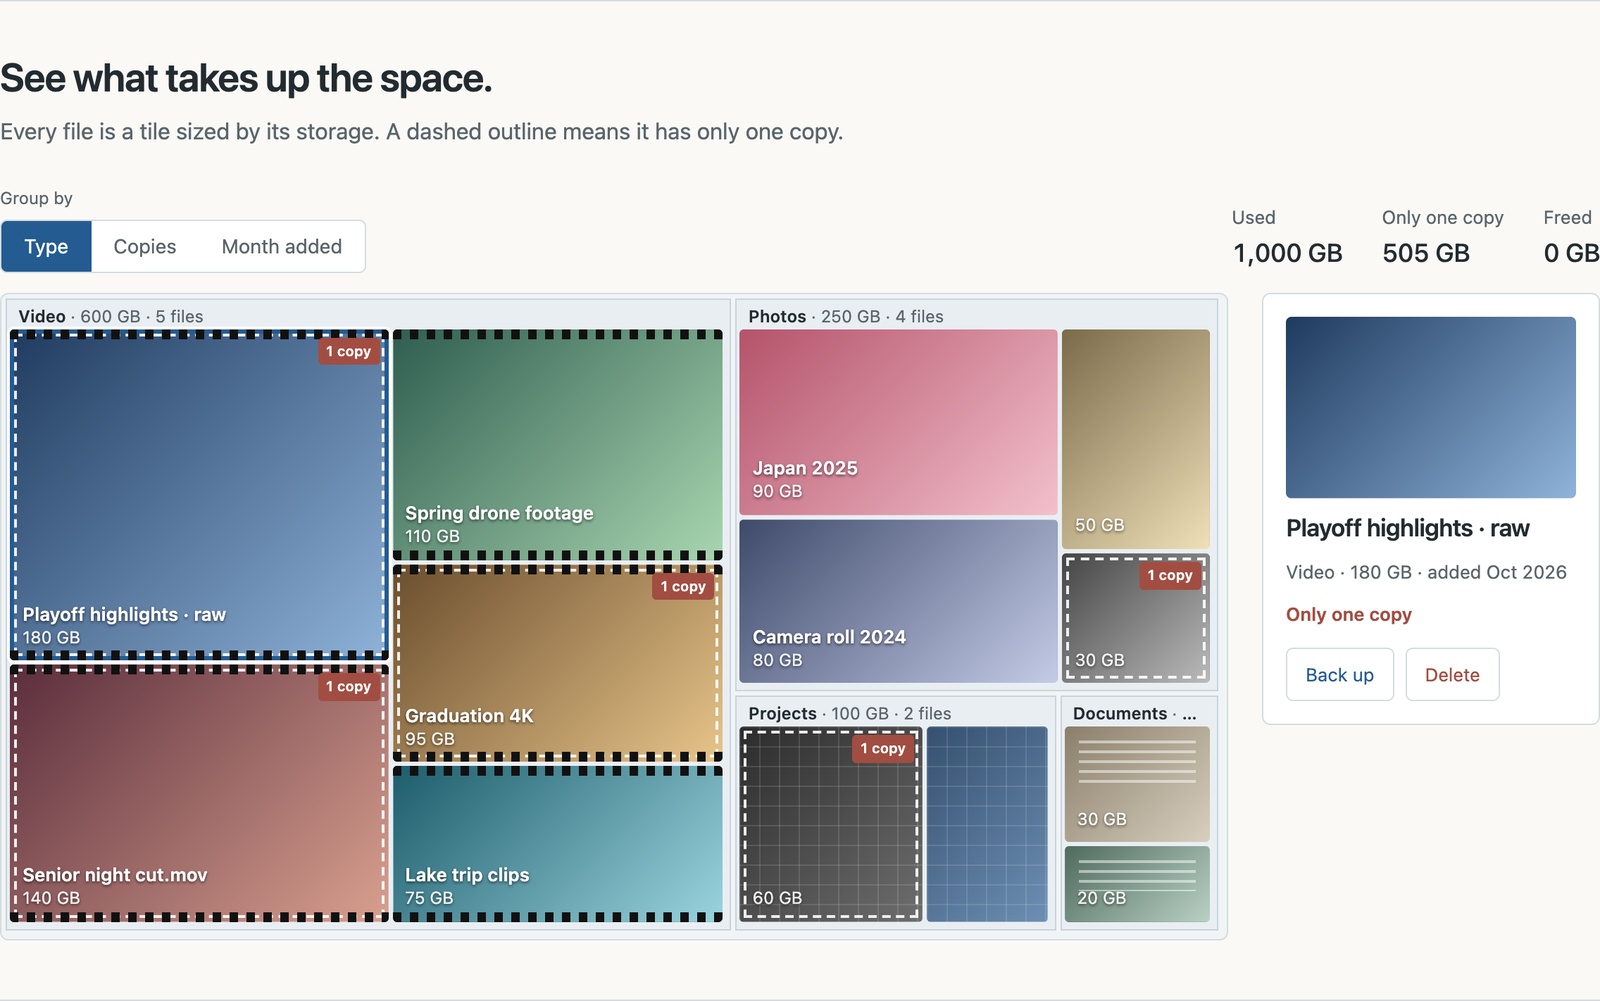
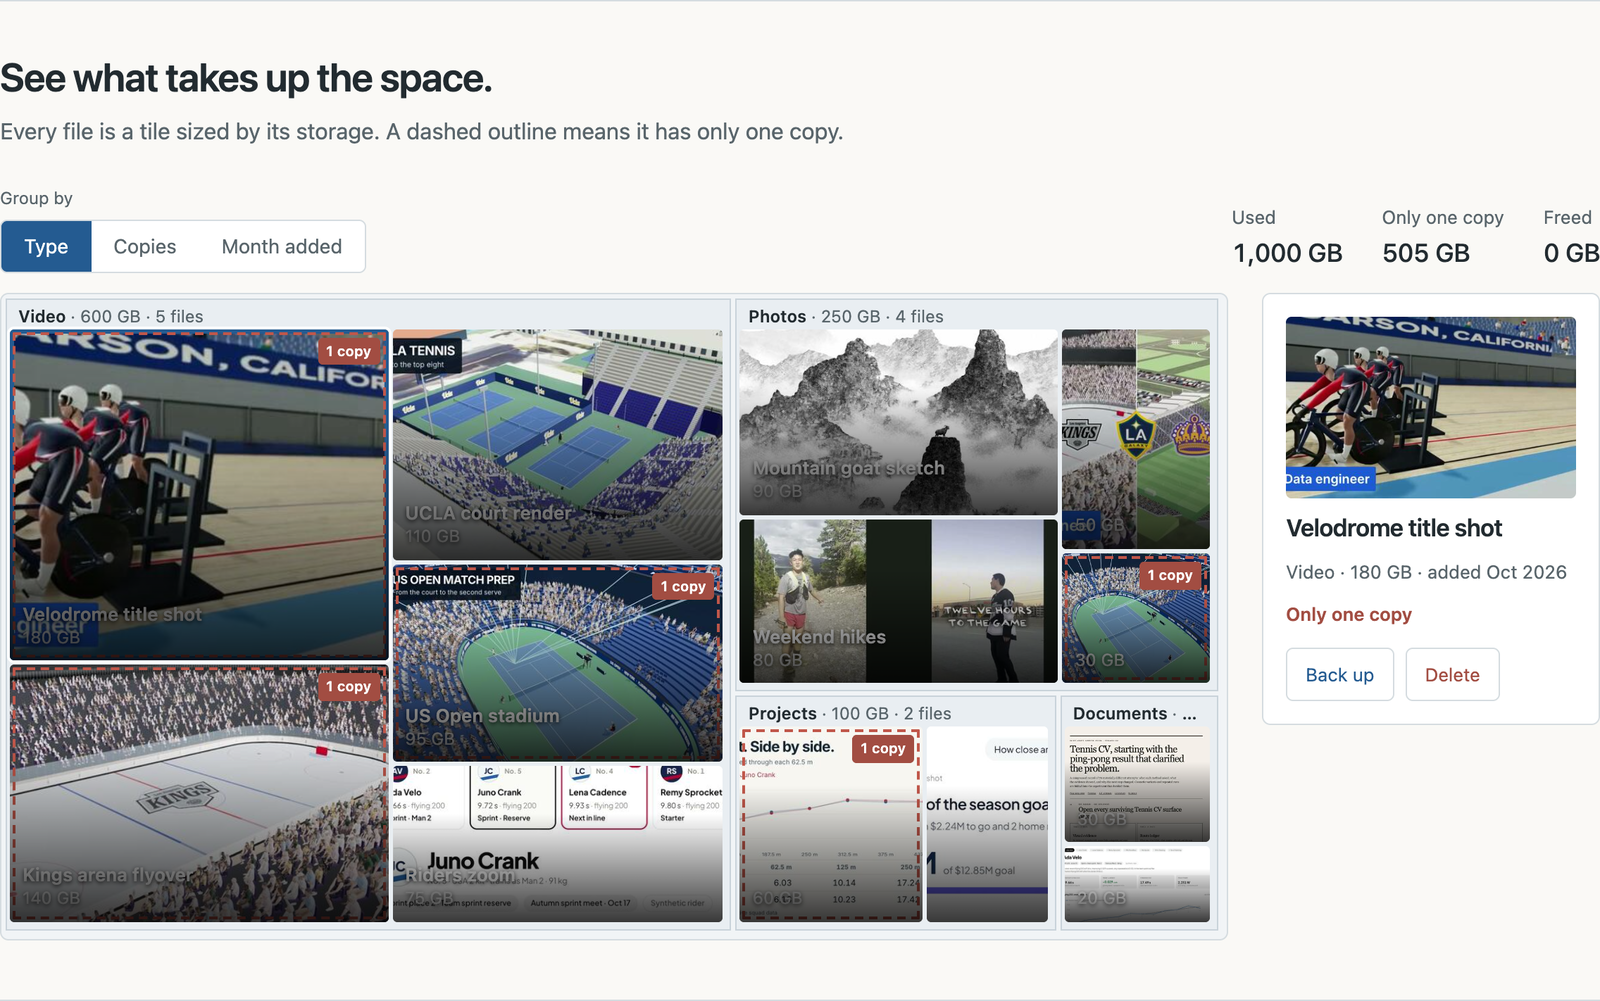
Use real portfolio frames as storage thumbnails and strengthen tile labels

diff --git a/examples/storage.js b/examples/storage.js
@@ -1,20 +1,20 @@
-/* Fictional files and sizes. Pure data and layout; no DOM. */
+/* Fictional files and sizes; thumbnails are frames from jerrythegoat.com projects. Pure data and layout; no DOM. */
 (function (root) {
   "use strict";
   const files = [
-    { id: "playoff", name: "Playoff highlights · raw", type: "Video", gb: 180, copies: 1, month: "2026-10", art: "linear-gradient(135deg,#1f3a5f,#8fb3d9)" },
-    { id: "senior", name: "Senior night cut.mov", type: "Video", gb: 140, copies: 1, month: "2026-09", art: "linear-gradient(135deg,#5a2d3c,#d9a08f)" },
-    { id: "drone", name: "Spring drone footage", type: "Video", gb: 110, copies: 2, month: "2026-05", art: "linear-gradient(135deg,#2f5d50,#a9d6b0)" },
-    { id: "grad", name: "Graduation 4K", type: "Video", gb: 95, copies: 1, month: "2026-06", art: "linear-gradient(135deg,#6b4e2e,#e8c58a)" },
-    { id: "lake", name: "Lake trip clips", type: "Video", gb: 75, copies: 2, month: "2026-08", art: "linear-gradient(135deg,#1d5c6b,#9bd4de)" },
-    { id: "japan", name: "Japan 2025", type: "Photos", gb: 90, copies: 2, month: "2026-01", art: "linear-gradient(135deg,#b4536a,#f3c0cc)" },
-    { id: "roll", name: "Camera roll 2024", type: "Photos", gb: 80, copies: 2, month: "2025-12", art: "linear-gradient(135deg,#3f4a6b,#c3cbe6)" },
-    { id: "family", name: "Family albums", type: "Photos", gb: 50, copies: 2, month: "2025-11", art: "linear-gradient(135deg,#7b6a4a,#efe0b8)" },
-    { id: "scans", name: "Negative scans", type: "Photos", gb: 30, copies: 1, month: "2026-09", art: "linear-gradient(135deg,#444,#bbb)" },
-    { id: "render", name: "Render cache", type: "Projects", gb: 60, copies: 1, month: "2026-10", art: "linear-gradient(135deg,#2b2b2b,#6e6e6e)" },
-    { id: "builds", name: "Site builds", type: "Projects", gb: 40, copies: 2, month: "2026-10", art: "linear-gradient(135deg,#355070,#6d8fb3)" },
-    { id: "tax", name: "Tax archive", type: "Documents", gb: 30, copies: 2, month: "2026-02", art: "linear-gradient(135deg,#8a7f6a,#d8cfbf)" },
-    { id: "notes", name: "Course notes", type: "Documents", gb: 20, copies: 2, month: "2026-08", art: "linear-gradient(135deg,#4f6b5e,#b9d1c4)" },
+    { id: "playoff", name: "Velodrome title shot", type: "Video", gb: 180, copies: 1, month: "2026-10", art: "velodrome" },
+    { id: "senior", name: "Kings arena flyover", type: "Video", gb: 140, copies: 1, month: "2026-09", art: "kings-arena" },
+    { id: "drone", name: "UCLA court render", type: "Video", gb: 110, copies: 2, month: "2026-05", art: "ucla-court" },
+    { id: "grad", name: "US Open stadium", type: "Video", gb: 95, copies: 1, month: "2026-06", art: "usopen-stadium" },
+    { id: "lake", name: "Riders zoom", type: "Video", gb: 75, copies: 2, month: "2026-08", art: "riders" },
+    { id: "japan", name: "Mountain goat sketch", type: "Photos", gb: 90, copies: 2, month: "2026-01", art: "goat" },
+    { id: "roll", name: "Weekend hikes", type: "Photos", gb: 80, copies: 2, month: "2025-12", art: "hikes" },
+    { id: "family", name: "Stadium crests", type: "Photos", gb: 50, copies: 2, month: "2025-11", art: "crests" },
+    { id: "scans", name: "Court concept", type: "Photos", gb: 30, copies: 1, month: "2026-09", art: "court-concept" },
+    { id: "render", name: "Rider splits chart", type: "Projects", gb: 60, copies: 1, month: "2026-10", art: "splits" },
+    { id: "builds", name: "Shield Genie screens", type: "Projects", gb: 40, copies: 2, month: "2026-10", art: "genie" },
+    { id: "tax", name: "Tennis CV writeup", type: "Documents", gb: 30, copies: 2, month: "2026-02", art: "tenniscv" },
+    { id: "notes", name: "Velo dashboard spec", type: "Documents", gb: 20, copies: 2, month: "2026-08", art: "velo-spec" },
   ];
   const monthName = new Intl.DateTimeFormat("en-US", { month: "short", year: "numeric", timeZone: "UTC" });
   const groupers = {

diff --git a/examples/favorites.css b/examples/favorites.css
@@ -337,7 +337,7 @@
   padding: 7px 9px;
   border: 0;
   border-radius: 3px;
-  background: var(--art) center / cover;
+  background: #223 var(--art) center / cover;
   color: white;
   text-align: left;
   display: flex;
@@ -345,7 +345,7 @@
   justify-content: flex-end;
   overflow: hidden;
   cursor: pointer;
-  text-shadow: 0 1px 2px rgb(0 0 0 / 0.55);
+  text-shadow: 0 1px 3px rgb(0 0 0 / 0.8);
   transition:
     left 0.5s,
     top 0.5s,
@@ -353,37 +353,12 @@
     height 0.5s,
     opacity 0.35s;
 }
-.tile::before,
 .tile::after {
   content: "";
   position: absolute;
-  left: 0;
-  right: 0;
-  height: 7px;
+  inset: 30% 0 0;
+  background: linear-gradient(transparent, rgb(0 0 0 / 0.78));
   pointer-events: none;
-}
-.tile.Video::before {
-  top: 0;
-  background: repeating-linear-gradient(90deg, #111 0 6px, transparent 6px 12px);
-}
-.tile.Video::after {
-  bottom: 0;
-  background: repeating-linear-gradient(90deg, #111 0 6px, transparent 6px 12px);
-}
-.tile.Projects::before {
-  inset: 0;
-  height: auto;
-  background:
-    linear-gradient(rgb(255 255 255 / 0.12) 1px, transparent 1px) 0 0 / 100% 14px,
-    linear-gradient(90deg, rgb(255 255 255 / 0.12) 1px, transparent 1px) 0 0 / 14px 100%;
-}
-.tile.Documents::before {
-  inset: 10px 10px auto;
-  height: 40%;
-  background: repeating-linear-gradient(
-    rgb(255 255 255 / 0.5) 0 2px,
-    transparent 2px 7px
-  );
 }
 .tile-name,
 .tile-size {
@@ -419,8 +394,8 @@
   text-shadow: none;
 }
 .tile.one-copy {
-  outline: 2px dashed rgb(255 255 255 / 0.9);
-  outline-offset: -5px;
+  outline: 2px dashed #c0574a;
+  outline-offset: -4px;
 }
 .tile.one-copy .badge {
   display: block;

diff --git a/examples/favorites.js b/examples/favorites.js
@@ -59,7 +59,7 @@ el("slide-back").addEventListener("click", () => setSlide(false));
     b = document.createElement("button");
     b.type = "button";
     b.className = "tile";
-    b.style.setProperty("--art", f.art);
+    b.style.setProperty("--art", `url("../assets/storage/${f.art}.jpg")`);
     b.innerHTML =
       '<span class="badge">1 copy</span><span class="tile-name"></span><span class="tile-size"></span>';
     b.addEventListener("click", () => select(f.id));
@@ -155,7 +155,7 @@ el("slide-back").addEventListener("click", () => setSlide(false));
         `<p class="file-hint">Select a file to delete it or back it up.</p>` + status;
     } else {
       panel.innerHTML = `
-        <div class="file-art" style="--art:${f.art}"></div>
+        <div class="file-art" style="--art:url(&quot;../assets/storage/${f.art}.jpg&quot;)"></div>
         <h2>${f.name}</h2>
         <p>${f.type} · ${gb(f.gb)} · added ${monthLabel(f)}</p>
         <p class="file-copies${f.copies < 2 ? "" : " safe"}">${

diff --git a/references/inspiration.md b/references/inspiration.md
@@ -23,4 +23,4 @@ Keep the main picture readable without a click. Keep a disclosure when it reveal
 
 ## Attribution and reuse
 
-The repository's original writing and example code are MIT licensed. Linked work remains under its own authors' terms. No affiliation or endorsement is claimed. The favorite-pattern demos are new public adaptations, not screenshots of the private originals. When adding real vendor marks or external assets, record the original URL and usage terms; the source-map example uses original generic SVG symbols. The hosting demo includes Node.js and Databricks marks from [Simple Icons](https://github.com/simple-icons/simple-icons), whose icon collection is CC0; brand trademark rights remain with their owners.
+The repository's original writing and example code are MIT licensed. Linked work remains under its own authors' terms. No affiliation or endorsement is claimed. The favorite-pattern demos are new public adaptations, not screenshots of the private originals. When adding real vendor marks or external assets, record the original URL and usage terms; the source-map example uses original generic SVG symbols. The hosting demo includes Node.js and Databricks marks from [Simple Icons](https://github.com/simple-icons/simple-icons), whose icon collection is CC0; brand trademark rights remain with their owners. The storage demo thumbnails are frames from my own portfolio projects at [jerrythegoat.com](https://jerrythegoat.com); the sports scenes there are illustrative reconstructions, and the LA Kings, LA Galaxy and Ontario Reign crests on the "Stadium crests" frame belong to their owners.
